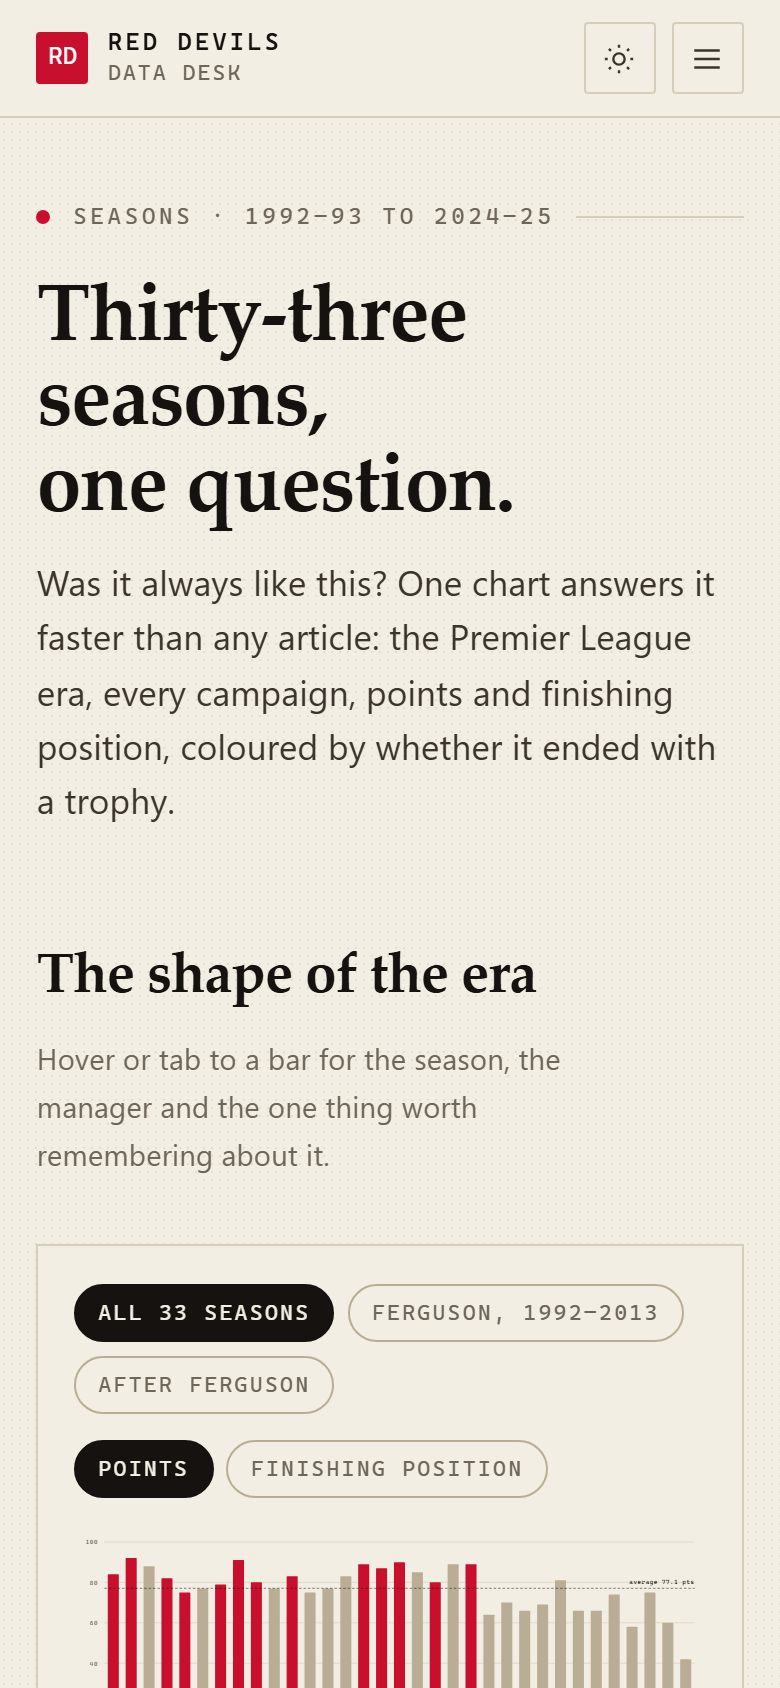
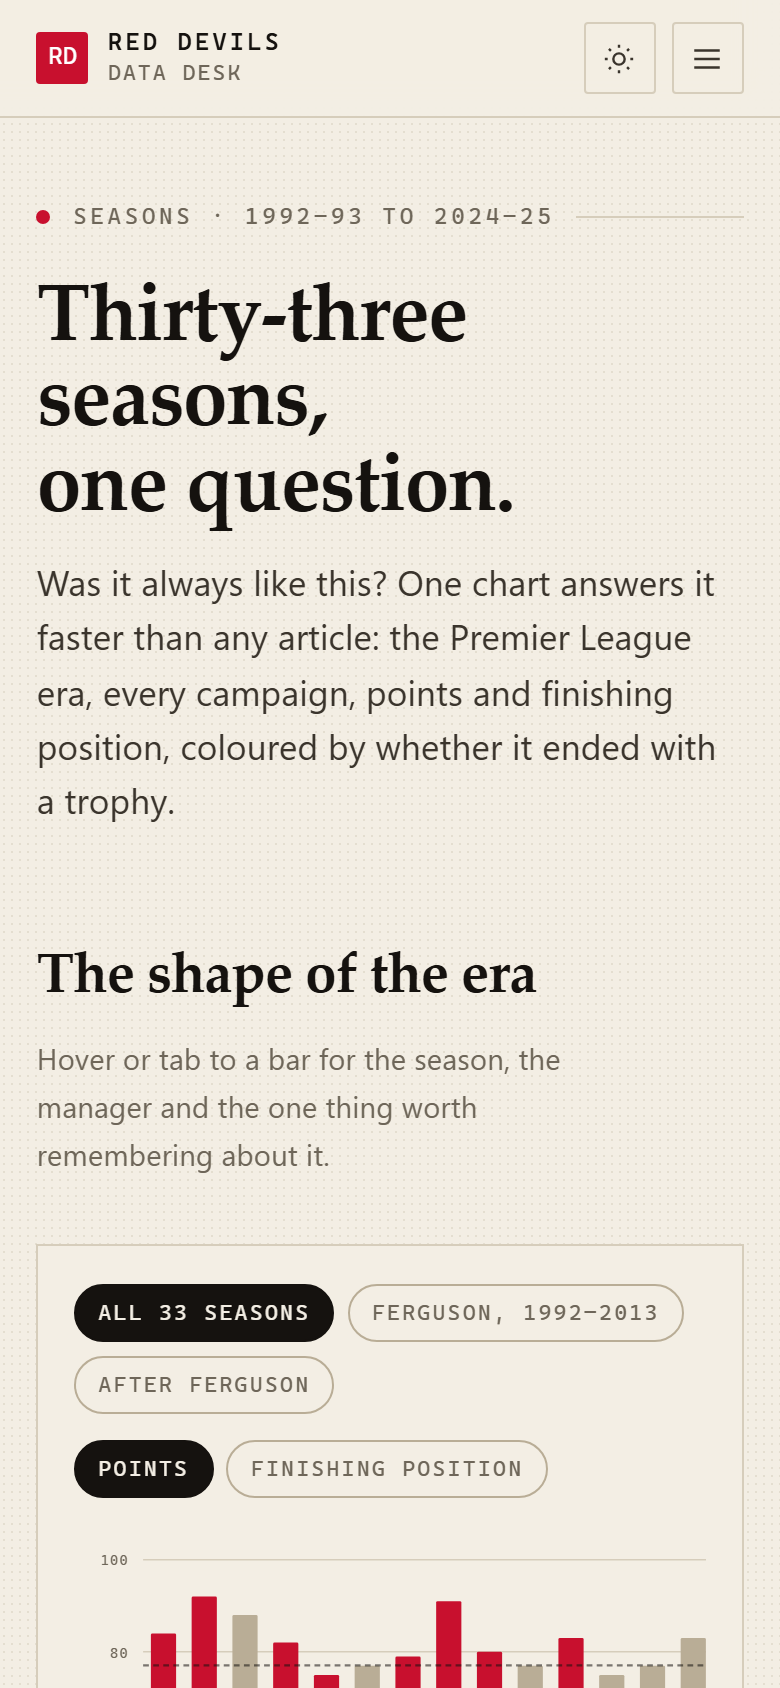
Tighten three claims that were slightly too strong
The 1999 Treble spanned ten days, not eleven; the 2000-01 side was the fourth
club to win three in a row (the first to do it twice came in 2009); and 15th in
2024-25 is the worst finish since 1974 rather than the worst ever. Also fixes the
home page heading, which promised three ways in and delivered four.

Changed region(s): [[0.1231, 0.9242, 0.9231, 1.0]]

diff --git a/assets/js/data.js b/assets/js/data.js
@@ -19,12 +19,12 @@ window.UTD = (function () {
     { season: '1992–93', pos: 1,  pts: 84, mgr: 'Ferguson',  note: 'The first Premier League title — and the end of a 26-year wait.' },
     { season: '1993–94', pos: 1,  pts: 92, mgr: 'Ferguson',  note: 'League and FA Cup double; Cantona’s first full season.' },
     { season: '1994–95', pos: 2,  pts: 88, mgr: 'Ferguson',  note: 'Lost the title to Blackburn on the final day by one point.' },
-    { season: '1995–96', pos: 1,  pts: 82, mgr: 'Ferguson',  note: 'Eleven points behind Newcastle in January, won by five.' },
+    { season: '1995–96', pos: 1,  pts: 82, mgr: 'Ferguson',  note: 'Twelve points adrift of Newcastle at one stage, won by five.' },
     { season: '1996–97', pos: 1,  pts: 75, mgr: 'Ferguson',  note: 'Cantona’s last season; fourth title in five years.' },
     { season: '1997–98', pos: 2,  pts: 77, mgr: 'Ferguson',  note: 'Arsenal’s double season; United finished second.' },
-    { season: '1998–99', pos: 1,  pts: 79, mgr: 'Ferguson',  note: 'The Treble. League, FA Cup and European Cup in eleven days.' },
+    { season: '1998–99', pos: 1,  pts: 79, mgr: 'Ferguson',  note: 'The Treble. League, FA Cup and European Cup in ten days.' },
     { season: '1999–2000', pos: 1,  pts: 91, mgr: 'Ferguson', note: 'Won the league by 18 points, a Premier League record margin.' },
-    { season: '2000–01', pos: 1,  pts: 80, mgr: 'Ferguson',  note: 'Third title in a row — the first club to do it twice.' },
+    { season: '2000–01', pos: 1,  pts: 80, mgr: 'Ferguson',  note: 'Third title in a row — the fourth club in English history to manage it.' },
     { season: '2001–02', pos: 3,  pts: 77, mgr: 'Ferguson',  note: 'Third place behind Arsenal and Liverpool.' },
     { season: '2002–03', pos: 1,  pts: 83, mgr: 'Ferguson',  note: 'Overtook Arsenal in the run-in; van Nistelrooy scored 25.' },
     { season: '2003–04', pos: 3,  pts: 75, mgr: 'Ferguson',  note: 'Arsenal went unbeaten; United third, but won the FA Cup.' },
@@ -32,7 +32,7 @@ window.UTD = (function () {
     { season: '2005–06', pos: 2,  pts: 83, mgr: 'Ferguson',  note: 'Runners-up; the League Cup was the only trophy.' },
     { season: '2006–07', pos: 1,  pts: 89, mgr: 'Ferguson',  note: 'Ronaldo and Rooney take over; first title in four years.' },
     { season: '2007–08', pos: 1,  pts: 87, mgr: 'Ferguson',  note: 'League and Champions League double — Moscow, penalties.' },
-    { season: '2008–09', pos: 1,  pts: 90, mgr: 'Ferguson',  note: 'Third straight title and the Club World Cup in Japan.' },
+    { season: '2008–09', pos: 1,  pts: 90, mgr: 'Ferguson',  note: 'Third straight title — the first English club to do it twice — plus the Club World Cup.' },
     { season: '2009–10', pos: 2,  pts: 85, mgr: 'Ferguson',  note: 'One point behind Chelsea; Rooney scored 34 in all competitions.' },
     { season: '2010–11', pos: 1,  pts: 80, mgr: 'Ferguson',  note: 'A 19th league title, passing Liverpool’s record.' },
     { season: '2011–12', pos: 2,  pts: 89, mgr: 'Ferguson',  note: 'Lost the title on goal difference to Agüero’s last kick.' },
@@ -48,7 +48,7 @@ window.UTD = (function () {
     { season: '2021–22', pos: 6,  pts: 58, mgr: 'Solskjær / Rangnick', note: 'Ronaldo returned; the season did not.' },
     { season: '2022–23', pos: 3,  pts: 75, mgr: 'Ten Hag',   note: 'Third and the League Cup — the first trophy in six years.' },
     { season: '2023–24', pos: 8,  pts: 60, mgr: 'Ten Hag',   note: 'Eighth, the worst finish of the Premier League era, plus the FA Cup.' },
-    { season: '2024–25', pos: 15, pts: 42, mgr: 'Ten Hag / Amorim', note: 'A fifteenth-place finish — the lowest in the club’s top-flight history.' }
+    { season: '2024–25', pos: 15, pts: 42, mgr: 'Ten Hag / Amorim', note: 'A fifteenth-place finish — the club’s worst since 1974.' }
   ];
 
   /* ---- Players ----------------------------------------------------------
@@ -141,7 +141,7 @@ window.UTD = (function () {
     { year: '1958', title: 'Munich', text: 'The plane carrying the Busby Babes crashes on the runway at Munich. Twenty-three people die, eight of them players.' },
     { year: '1968', title: 'European champions', text: 'Ten years after Munich, a team built around Charlton, Best and Law becomes the first English club to lift the European Cup.' },
     { year: '1986', title: 'Ferguson arrives', text: 'Appointed in November with the club near the bottom of the table. The first three years are worse, not better.' },
-    { year: '1999', title: 'The Treble', text: 'League, FA Cup and Champions League inside eleven days, the last of them two goals down in stoppage time in Barcelona.' },
+    { year: '1999', title: 'The Treble', text: 'League, FA Cup and Champions League inside ten days, the last of them two goals down in stoppage time in Barcelona.' },
     { year: '2008', title: 'Moscow', text: 'A third European Cup on penalties in the rain, the same season as a tenth Premier League title.' },
     { year: '2013', title: 'The end of an era', text: 'Ferguson retires after a 20th league title. Nothing since has been the same, which is the honest reason this site exists.' }
   ];

diff --git a/trophies.html b/trophies.html
@@ -112,7 +112,7 @@
       <p>Two things get argued about every time this number appears:</p>
       <ul>
         <li><strong>Shared shields.</strong> Four Charity/Community Shields were shared rather than won outright (1965, 1967, 1977, 1990). They are included here because the club counts them, and marked with a dashed border so you can subtract them yourself.</li>
-        <li><strong>What counts as “major”.</strong> Second Division titles, the Manchester Cup and the Lancashire Cup are real trophies and are not in this total. Neither is the 1999 Treble as a separate item — it is three of the trophies above landing in eleven days.</li>
+        <li><strong>What counts as “major”.</strong> Second Division titles, the Manchester Cup and the Lancashire Cup are real trophies and are not in this total. Neither is the 1999 Treble as a separate item — it is three of the trophies above landing in ten days.</li>
       </ul>
       <p>If you want the stricter number, remove the four shared shields: <strong>64 outright</strong>.</p>
     </div>

diff --git a/seasons.html b/seasons.html
@@ -164,7 +164,7 @@
         <tbody data-season-rows></tbody>
       </table>
     </div>
-    <p class="quiz-note" style="margin-top:.9rem;">Points and positions as recorded for each season. The 2024–25 campaign ended with 42 points and a 15th-place finish — the lowest league position in the club's history.</p>
+    <p class="quiz-note" style="margin-top:.9rem;">Points and positions as recorded for each season. The 2024–25 campaign ended with 42 points and a 15th-place finish — the club's lowest finish since 1974.</p>
   </section>
 </main>
 

diff --git a/assets/js/quiz.js b/assets/js/quiz.js
@@ -36,7 +36,7 @@
       q: 'How many points did United take from the 2024–25 Premier League season?',
       a: ['42', '52', '58', '64'],
       correct: 0,
-      why: 'Forty-two points and a 15th-place finish — the lowest league position in the club’s history.',
+      why: 'Forty-two points and a 15th-place finish — the club’s lowest finish since 1974.',
       source: { href: 'seasons.html', label: 'Season by season' }
     },
     {

diff --git a/index.html b/index.html
@@ -128,7 +128,7 @@
   <!-- Three ways in ----------------------------------------------------- -->
   <section class="wrap section">
     <div class="section-head">
-      <h2>Three ways in</h2>
+      <h2>Four ways in</h2>
       <p class="section-note">Every number on this site is clickable, filterable or sortable. Start wherever your argument is.</p>
     </div>
 
